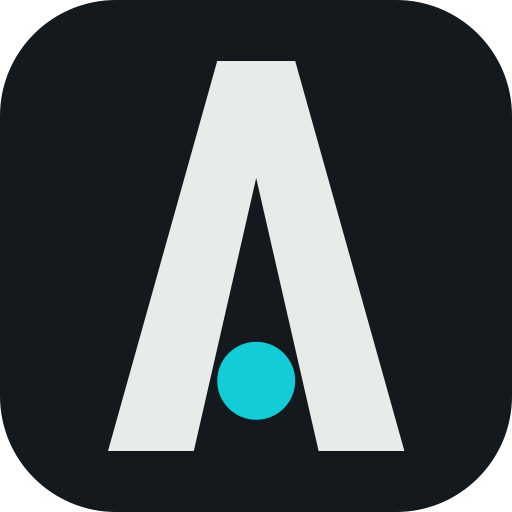
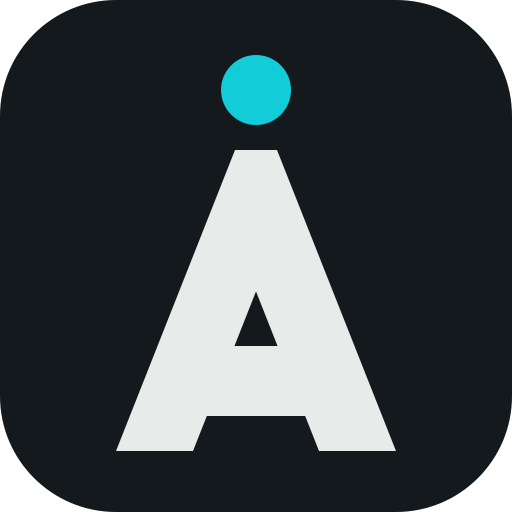
字标参考埃安字母形态重画：宽扁几何、笔画顶端斜切、A 平顶带横杠（AI 神箭的向上意象），图标 A 上方悬热点圆点；侧栏字标缩到 23，分享图/海报版本随升

Changed region(s): [[0.2188, 0.0938, 0.8125, 0.875], [0.375, 0.3438, 0.625, 0.875]]

diff --git a/site/brand/Logo.tsx b/site/brand/Logo.tsx
@@ -2,18 +2,21 @@
 // Wordmark 是 AUTOHOT 的字母变形（SVG）；换站名时重新画一份，保持同样的参数。
 import { SITE } from "../site.ts";
 
-/** 字标：AUTOHOT 七个粗体字母，A 去掉横杠成 Λ，第二个 O 里的圆点是“热点”。字母随文字颜色，圆点用强调色。 */
+/** 字标：AUTOHOT 宽扁几何字形（参考埃安字母标），笔画顶端斜切，A 平顶带横杠，HOT 的 O 内嵌“热点”圆点。字母随文字颜色，圆点用强调色。 */
 export function Wordmark({ size = 24, className = "", title = SITE.name }: { size?: number; className?: string; title?: string }) {
+  const glyphs: Record<string, string> = {
+    A: "M0 86L34 0H46L80 86H58L40 40.4L22 86ZM16 56H64V76H16Z",
+    U: "M0 4V46A40 40 0 0 0 80 46V0L60 4V46A20 20 0 0 1 40 66A20 20 0 0 1 20 46V0Z",
+    T: "M0 0H80L76 20H4ZM30 10H50V86H30Z",
+    O: "M34 0H46A34 34 0 0 1 80 34V52A34 34 0 0 1 46 86H34A34 34 0 0 1 0 52V34A34 34 0 0 1 34 0ZM34 20H46A14 14 0 0 1 60 34V52A14 14 0 0 1 46 66H34A14 14 0 0 1 20 52V34A14 14 0 0 1 34 20Z",
+    H: "M0 4L20 0V86H0ZM60 4L80 0V86H60ZM18 37H62V55H18Z",
+  };
   return (
-    <svg viewBox="-8 -8 632 116" height={size} width={Math.round((size * 632) / 116)} className={className} aria-label={title} role="img">
-      <path d="M0 100L28 0H48L76 100H54L38 30L22 100Z" fill="currentColor" />
-      <path
-        d="M101 0V63A27 27 0 0 0 155 63V0M180 11H256M218 0V100M308 11H308A27 27 0 0 1 335 38V62A27 27 0 0 1 308 89H308A27 27 0 0 1 281 62V38A27 27 0 0 1 308 11ZM371 0V100M425 0V100M371 50H425M488 11H488A27 27 0 0 1 515 38V62A27 27 0 0 1 488 89H488A27 27 0 0 1 461 62V38A27 27 0 0 1 488 11ZM540 11H616M578 0V100"
-        fill="none"
-        stroke="currentColor"
-        strokeWidth="22"
-      />
-      <circle cx="488" cy="50" r="12" className="fill-accent" />
+    <svg viewBox="-8 -8 630 102" height={size} width={Math.round((size * 630) / 102)} className={className} aria-label={title} role="img">
+      {["A", "U", "T", "O", "H", "O", "T"].map((l, i) => (
+        <path key={i} transform={`translate(${i * 89} 0)`} d={glyphs[l]} fill="currentColor" fillRule={l === "O" ? "evenodd" : undefined} />
+      ))}
+      <circle cx="485" cy="43" r="11.5" className="fill-accent" />
     </svg>
   );
 }

diff --git a/apps/web/app/components/shell/Sidebar.tsx b/apps/web/app/components/shell/Sidebar.tsx
@@ -93,7 +93,7 @@ export function Sidebar({ changelogVersion }: { changelogVersion: string | null 
       <Rail dot={dot} />
       <aside ref={columnRef} className={`scrollbar-thin sticky top-0 hidden h-dvh w-[180px] shrink-0 flex-col border-r border-line bg-sidebar px-3 pb-[max(14px,env(safe-area-inset-bottom))] pt-6 wide:flex short:overflow-y-auto ${columnOverscroll}`}>
         <Link to="/" className="mb-4 flex h-[50px] shrink-0 items-center px-1 text-ink" aria-label={`${SITE.name} 首页`}>
-          <Wordmark size={26} />
+          <Wordmark size={23} />
         </Link>
         <nav ref={navRef} className={`scrollbar-thin -mx-1 flex-1 overflow-y-auto px-1 short:flex-none short:overflow-visible ${navOverscroll}`} aria-label="主导航">
           {sidebar().map((section) => {

diff --git a/packages/backend/src/media/poster.ts b/packages/backend/src/media/poster.ts
@@ -5,7 +5,7 @@ import { renderSVG } from "uqr";
 import { SITE } from "@aihot/site";
 import { brandMark, clamp, FALLBACK_FONTS, h, nameMark, renderPng, SITE_HOST, type Node } from "./og.ts";
 
-export const POSTER_TEMPLATE_VERSION = "poster-2026-11-28.1";
+export const POSTER_TEMPLATE_VERSION = "poster-2026-11-28.2";
 const WIDTH = 1080;
 const HEIGHT = 1440;
 

diff --git a/packages/backend/src/media/og.ts b/packages/backend/src/media/og.ts
@@ -9,7 +9,7 @@ import sharp from "sharp";
 import { config, REPO_ROOT } from "../config.ts";
 import { SITE } from "@aihot/site";
 
-export const OG_TEMPLATE_VERSION = "og-2026-11-28.1";
+export const OG_TEMPLATE_VERSION = "og-2026-11-28.2";
 const WIDTH = 1200;
 const HEIGHT = 630;
 const CACHE_DIR = path.join(config.dataDir, "ogcache");
